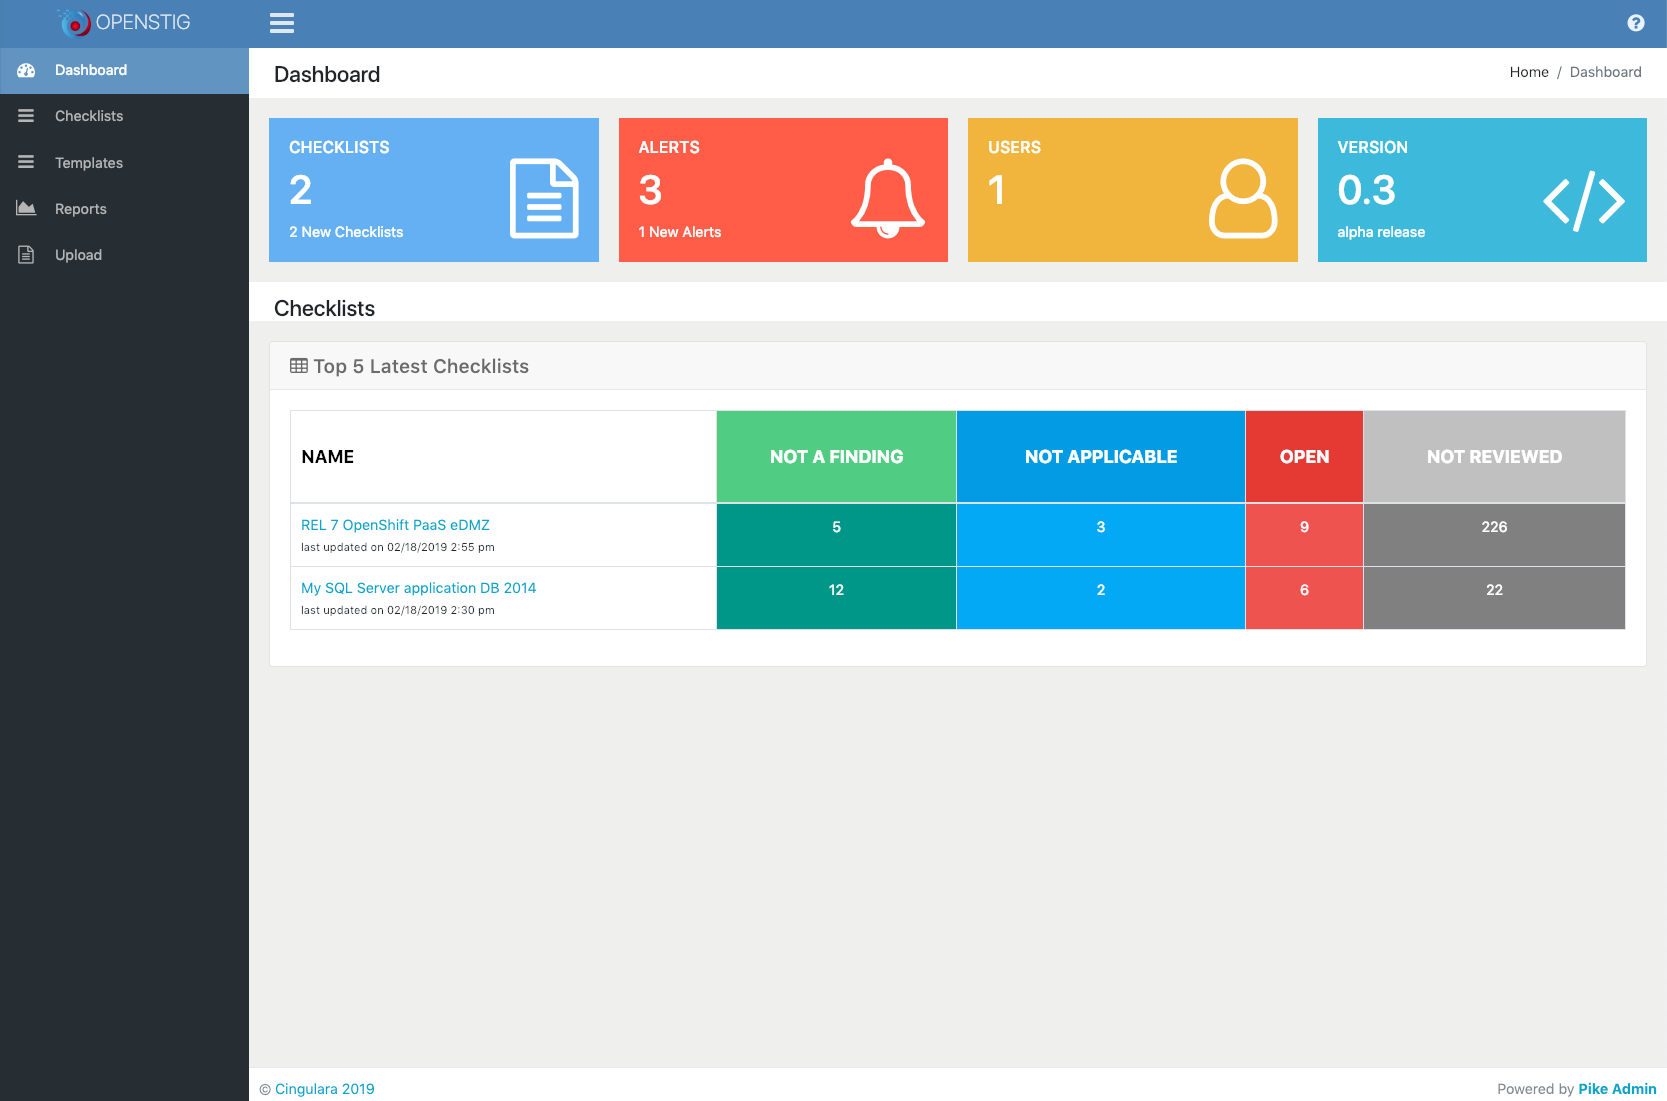
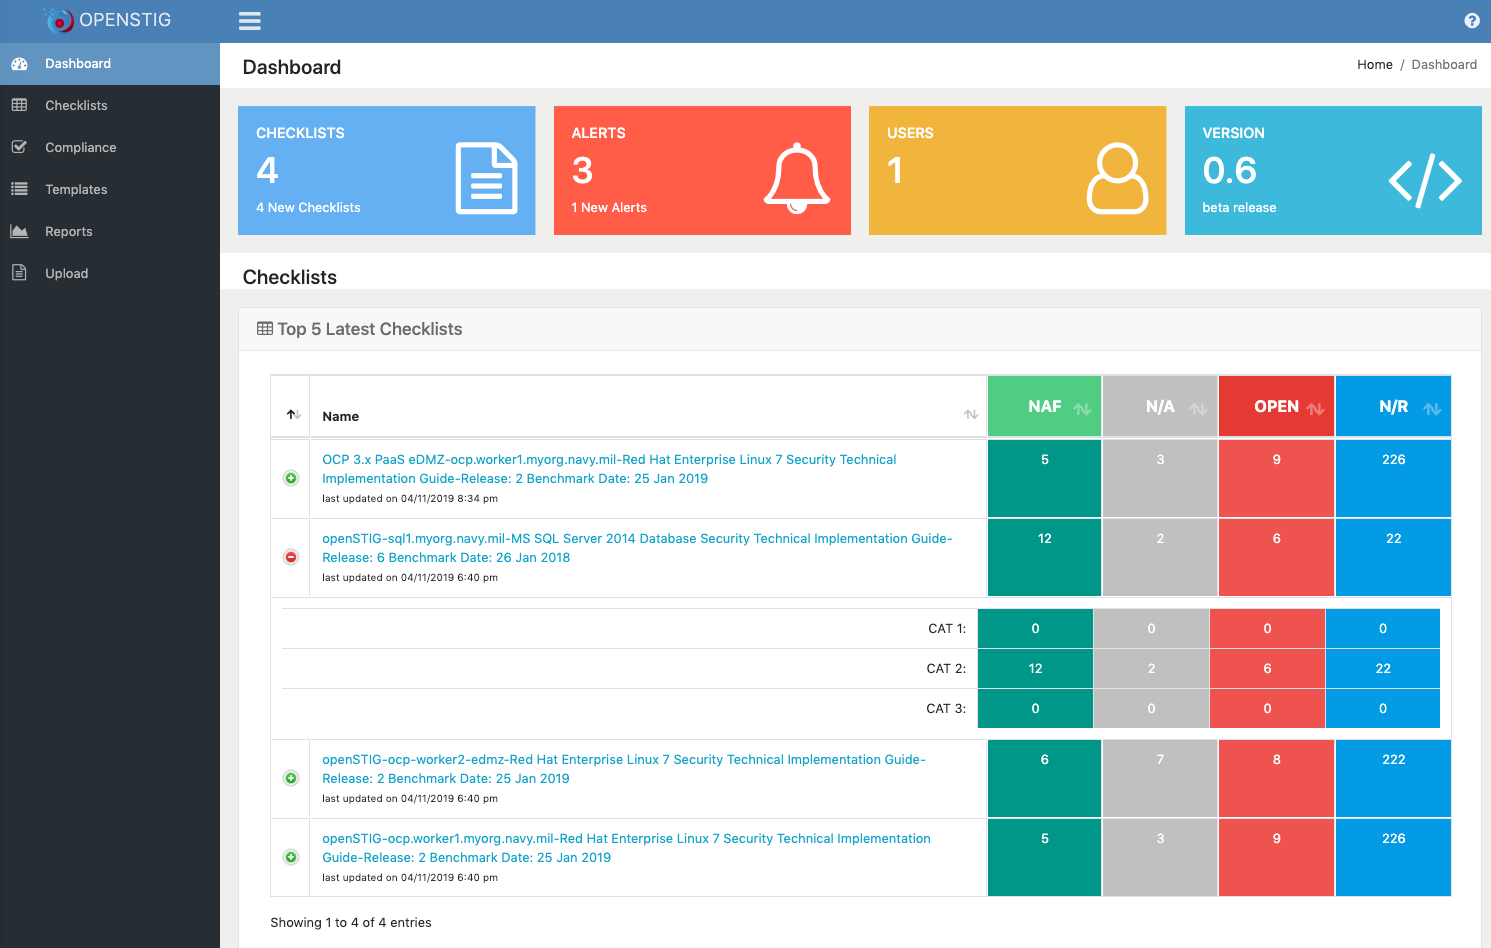
updating docs to 0.6

diff --git a/README.md b/README.md
@@ -1,11 +1,47 @@
-# openSTIG Documentation (v 0.5)
+# openSTIG Documentation (v 0.6)
 
-The openSTIG tool is a better alternative than the [DISA STIGViewer.jar](https://iase.disa.mil/stigs/Pages/stig-viewing-guidance.aspx) that is used for DoD STIG checklist files, RMF process information, and the like. It is necessary to capture and report on this information, please do not mistake what I say for not agreeing with securing services. However the DISA Java tool itself is horribly designed and not conducive to today's environment and use. Their Java tool has been like this for a loooooonnnnnngggg time and I have wanted to make something better (IMO) for almost as long. So this tool here is the start! It is a way (currently) to view, report on, dive into, manage, and export your STIG checklists no matter which checklist you are referring to. All the .CKL files have a common format and htis reads and displays/manages that in a web front end using .NET Core APIs, MongoDB and NATS messaging. [View the history](https://www.cingulara.com/opensource.html) of this tool on our website. 
+## Introduction
+openSTIG is an open source tool for managing, viewing, and reporting of your DoD STIG checklists in one web-based interface using your browser. It also 
+
+Read more about its genesis <a href="https://www.cingulara.com/opensource.html" target="_blank">here</a>.
 
 ![Image](./img/UI-checklist-dashboard.png?raw=true)
 
+## Current Functionality
+[x] Save/Upload .CKL files for viewing and safekeeping
+[x] List and display active checklists
+[x] List and display templated checklists (starting points)
+[x] Group and list checklists and reports by System (a group of checklists for a single application, system, etc.)
+[x] Reporting or "scoring" on Open, N/A, "Closed" as well as "not yet reviewed" items in the checklists quickly
+[x] Exporting the .CKL file for quick loading into the STIG Viewer Java application
+[x] Exporting to MS Excel in seconds with color coded rows based on status (Open = RED, Not a Finding = GREEN, etc.)
+[x] Dashboard showing # of checklists, top 5 checklists based on activity
+[x] Exporting of charts for download to PNG
+[x] Generate a Compliance listing of NIST 800-53 Controls to all checklists within a system 
+[x] Filter Vulnerabilities on the Checklist page by status 
+[x] Filter vulnerabilities for your Compliance listing based on major controls
+[x] Exporting your list of checklists and their score by status and category to MS Excel 
+
+## ToDos
+[ ] Select the fields to export to MS Excel, autofilter enabled on the header row
+[ ] A wizard to ask questions and customize a starting checklist file for you with certain fields and comments filled in
+[ ] User login and auditing
+[ ] Central logging (ledger) for all CRUD and access usage based on NATS
+[ ] Import the Manual XML STIG to create a starting checklist
+[ ] Track changes / versions as you edit for a visual diff
+[ ] Track projects and due dates with notifications on timelines as well as anniversaries and required updates
+[ ] YAML to quickly setup this project in OpenShift or K8s natively
+
+## Description
+
+The openSTIG tool is a better alternative than the [DISA STIGViewer.jar](https://iase.disa.mil/stigs/Pages/stig-viewing-guidance.aspx) that is used for DoD STIG checklist files, RMF process information, and the like. It is necessary to capture and report on this information, please do not mistake what I say for not agreeing with securing services. However, the DISA Java tool itself is horribly designed and not conducive to today's environment and use. Their Java tool has been like this for a loooooonnnnnngggg time and I have wanted to make something better (IMO) for almost as long. So this tool here is the start! It is a way (currently) to view, report on, dive into, manage, and export your STIG checklists no matter which checklist you are referring to. All the .CKL files have a common format and htis reads and displays/manages that in a web front end using .NET Core APIs, MongoDB and NATS messaging. [View the history](https://www.cingulara.com/opensource.html) of this tool on our website. 
+
 This is the repo for all the docs as the openSTIG project goes along.  Documentation on the openSTIG application will be here in MD files and reference images and other documents as well as GH markdown. This application idea has been brewing in my head for well over a decade and specifically since July 4th weekend 2018 when I started to put down code. Then in January 2019 when I scrapped all that July stuff and went for web APIs, microservices, eventual consistency, CQRS (command query responsibility segregation to scale separately), using MongoDB and NATS.
 
+## What you need to run
+You need a web browser that is fairly current. And you need Docker installed on your desktop or server as this currently uses the Docker runtime to bring up all components with ` docker-compose `.
+
+* Docker is available at <a href="https://docs.docker.com/install/" target="_blank">https://docs.docker.com/install/</a>.
 
 ## Docker-compose file to run
 There is a stack.yml file in here to run the API .net core pieces, messaging subscriber for scoring, as well as local NATS and MongoDB. It uses 10+ images pulled from DockerHub, 1 being the NATS messaging. You can certainly pull down the individual git repos or even pull the individual images and run them. I just did this so it was easier later and so I could show myself I could get it all running. I also have a local-stack for those wanting to do development and use the local copies you build. And an infra-stack to just run a single instance of MongoDB and NATS to test interactively. To run it, do something like this below. Add the ` -d ` before the ` -f stack.yml ` to run as a server/service/daemon versus interactively (default). I usually run interactively so I can see the logs and what is happening.
@@ -18,13 +54,13 @@ docker-compose -f stack.yml up
 
 Then you can open a local browser to http://localhost:8080/ and see what happens. If you want to change the ports you only have to edit the stack.yml file locally.  
 
-> The data is ephemeral, it dies when the containers die. If you want persistence changed the connection strings to a persistent > MongoDB, add volumes, etc. as you need.
+> The data is currently mapped to internal Docker-managed volumes for persistenct. You can run the "docker volume rm" command below if you wish to remove and start over as you test.  If you want persistence you could change the connection strings to another MongoDB server and adjust the stack.yml accordingly.
 
 ## Architecture explained
 
 Phase 1 Vision / Concept as drawn on my whiteboard:
 
-![Image](./architecture/openSTIG-Tool-0.4-Architecture.png?raw=true)
+![Image](./architecture/openSTIG-Tool-0.6-Architecture.png?raw=true)
 
 The architecture was setup to do a few things for this tool and for myself actually:
 * https://github.com/Cingulara/openstig-web is the web UI pointing to all these APIs below to render checklists listings, data, vulnerabilities, reports, and allowing saving 
@@ -40,35 +76,6 @@ of chart data and XLSX downloads.
 
 Future enhancements, since I did it with separate microservices all over including messaging, are to organically add publish / subscribe pieces such as compliance, auditing, logging, etc. to make this more user and enterprise ready. Along with all the error trapping, checking for NATS connection, etc. that a production 1.0 application would have. 
 
-## STIG types
-All the checklist CKL files have the same structure. Right now I am testing mainly the SQL Server, .NET, Java, and other web server checklists however I have tested the OS and web browser ones as well. All of them work well. I have not included those checklists in here that are beind a PKI certificate login. https://iase.disa.mil/stigs/Pages/index.aspx has the info on STIGs and there are some on web servers, HBSS, Windows, Linux, Oracle, SQL Server, anti-virus, browsers, etc. More to come in this area for sure. There is an Upload page in the UI that lets you upload a CKL file and select the type, name and description to track and report.
-
-```
-        Other = 0, // those not listed here, those you need via PKI, etc.
-
-        /* Development Technologies */
-        ApplicationSecurityAndDevelopment = 10,
-        OracleJRE8UNIX = 101,
-        OracleJRE8Windows = 102,
-        MSDotNet4 = 105,
-
-        /* ANTI VIRUS */
-        McAfeeAntiVirusLocalClient = 201,
-        McAfeeAntiVirusManagedClient = 202,
-        McAfeeAntiVirusEnterpriseLinuxLocalClient = 203,
-        McAfeeAntiVirusEnterpriseLinuxManagedClient = 204,
-        McAfeeAntiVirusEnterpriseLinux = 200,
-        WindowsDefender = 205,
-
-        /* Application Servers */
-        ColdFusion = 301,
-        BromiumSecurePlatform4 = 305,
-        IBMMQAppliancev9AS = 310,
-        IBMMQAppliancev9NDM = 311,
-
-        ...there are more in the code
-```
-
 ## Known issues
 If you find something please add an issue to the correct repo. I know for now, I don't "D" yet to delete. It is ephemeral so I just power down the stack and power back up as I am testing. Eventually I will need to do that. 
 
@@ -81,9 +88,6 @@ If you wish you can create a MongoDB setup just to persist your data and see wha
 * run `docker volume rm $(docker volume ls -qf dangling=true)` 
 * run `docker system prune` and then enter `y` and press Enter when asked
 
-## Examples using Insomnia
-The [Insomnia](Insomnia.md) readme has examples of calling the APIs straight
-
 ## Screenshots of the UI
 
 The Individual Checklist view
@@ -94,9 +98,6 @@ The UI Checklist Graphs
 
 The checklist Upload page
 ![Image](./img/UI-checklist-upload.png?raw=true)
-
-The UI Checklist Template view
-![Image](./img/UI-checklist-template.png?raw=true)
 
 Exporting the checklist to XLSX with color coding
 ![Image](./img/checklist-export-xlsx.png?raw=true)
